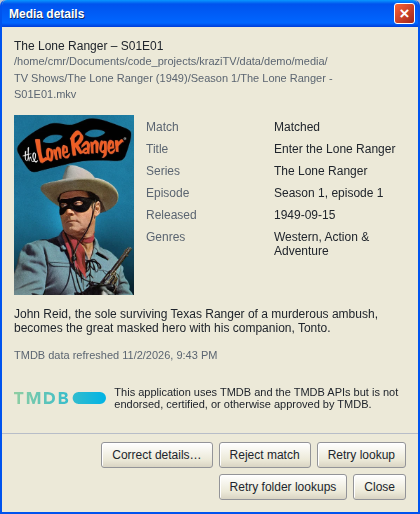
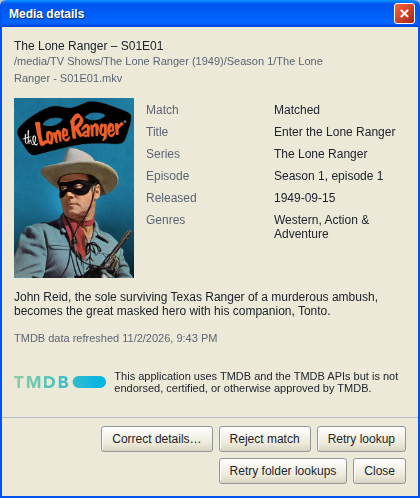
POLISH-068: The first-run walk and the wiki
The wiki now tells owners what a saved TMDB key does and who Gregg is.

- First Run: the TMDB isn't set up balloon leads to Set up TMDB, saving
  the key looks the first scan's files up with no rescan, and the
  Collections ready balloon's Make collections opens Discover.
- Set Up TMDB: what saving a key starts, its two confirmations, the tray's
  running count; the "scan each root again" advice and the yellow icon are
  gone.
- The Desktop: Gregg, kraziTV's tray assistant; one icon, one balloon at a
  time, the three reminders in order with their buttons, Remind me later
  and Don't remind me, once per desktop start, and the running status.
- Media Library: the not-looked-up count and Look up on TMDB.
- Troubleshooting: Look up on TMDB replaces Retry failed lookups.

Screenshots retaken from the demo library: desktop-start, media-library,
media-details, correct-details (set-up-tmdb, logon, and channel-lineup
came out identical). New tray-balloon.png: the demo has a key and no
undecided recommendations, so no reminder shows there; the script tells
only its own browser that no key is set and clears the TMDB reminder's
stored choice, so the balloon opens by itself as on a keyless install.
The demo's media folder is now resolved, so shots taken from a worktree
whose data/demo links to the main checkout still hide the path.

Records the POLISH-068 Status block.

diff --git a/wiki/The-Desktop.md b/wiki/The-Desktop.md
@@ -51,11 +51,53 @@ window to the front or restore it from being minimized.
 
 The system tray on the right holds:
 
-- **A yellow warning icon** while TMDB is not set up. Click it to see why
-  and to set it up. See [Set up TMDB](Set-Up-TMDB).
+- **Gregg**, a small television's head, while kraziTV has something to
+  tell you or files are being looked up on TMDB. See below.
 - **A dot** that is green while the browser can reach kraziTV and amber
   when it cannot; hover it to read why. Clicking it opens Live Monitor.
 - **The clock.**
+
+## The tray and Gregg
+
+Gregg is kraziTV's tray assistant: a tired beige television with rabbit
+ears, an accountant's green visor, and a cigarette, who has seen every
+shoebox of receipts and does the paperwork anyway. He never wanders around
+the desktop. He sits in the tray and speaks through balloons, like the ones
+XP's tray popped up.
+
+![Gregg's balloon when TMDB isn't set up](images/tray-balloon.png)
+
+Each balloon says plainly what is wrong and what its first button does;
+Gregg's own remark sits in italics under the title. There is one icon and
+one balloon at a time. Pointing at the icon shows the title of the balloon
+it opens, and clicking it opens that balloon. When more than one thing
+needs you, the balloon higher in this list comes first. The numbers in
+the titles are examples:
+
+| Balloon                                       | When                                                                                            | First button                                                                        |
+| --------------------------------------------- | ----------------------------------------------------------------------------------------------- | ----------------------------------------------------------------------------------- |
+| **TMDB isn't set up**                         | No TMDB key is saved. It pops up on its own only once you have a media root                     | **Set up TMDB** opens Account Settings on that task. See [Set up TMDB](Set-Up-TMDB) |
+| **312 files haven't been looked up on TMDB**  | A key is saved, nothing is being scanned or looked up, and some files never were                | **Look them up** looks up every root's leftover files, failed lookups included      |
+| **kraziTV found 14 shows and 3 movie series** | Nothing is left to look up, and kraziTV has collections to suggest that you have not decided on | **Make collections** opens [Collections](Collections) on **Discover collections**   |
+
+Every balloon also has **Remind me later** and **Don't remind me**:
+
+- **Remind me later**, the ✕, and Escape close it, and it does not pop up
+  on its own again for 7 days. The first button counts the same.
+- **Don't remind me** stops that balloon popping up on its own in this
+  browser. Gregg's icon still shows while the balloon applies, so you can
+  always click it.
+
+Each balloon remembers its own answer, so silencing one never silences
+another. A balloon pops up on its own at most once each time you open
+kraziTV in your browser, which can be partway through, such as when
+lookups finish. It never takes the keyboard away from the window you are
+using. **kraziTV found…** comes back on its own only when there are more
+suggestions than when you last answered it.
+
+While files are being looked up on TMDB, Gregg's icon reads "Looking up
+files on TMDB: 340 of 1,234". Clicking it shows the same count, with only a
+✕ to close it; nothing pops up on its own while lookups run.
 
 ## Start
 

diff --git a/wiki/First-Run.md b/wiki/First-Run.md
@@ -34,21 +34,33 @@ one for movies.
 
 ## 3. Set up TMDB
 
-A yellow icon in the system tray reminds you that TMDB is not set up. With
-a free TMDB key, kraziTV recognizes your series, seasons, episodes, and
-movies, and can build collections for you. Without it, kraziTV only knows
-what your file names say.
+Once you have a media root, a balloon pops up from the system tray:
+**TMDB isn't set up**. It comes from Gregg, kraziTV's tray assistant, a
+weary old television who tells you what kraziTV needs from you next; see
+[The desktop](The-Desktop#the-tray-and-gregg). With a free TMDB
+key, kraziTV recognizes your series, seasons, episodes, and movies, and
+can build collections for you. Without it, kraziTV only knows what your
+file names say.
 
-[Set it up](Set-Up-TMDB) now, then scan each media root
-again from its row menu. The rescan only looks up files that were never
-matched, so it is quick. [Media Library](Media-Library) explains what the lookups find.
+![Gregg's balloon when TMDB isn't set up](images/tray-balloon.png)
+
+[Set it up](Set-Up-TMDB) now; the balloon's **Set up TMDB** button takes
+you straight there. When you click **Save**, kraziTV looks up every file
+your scan could not, on its own, and says how many: "kraziTV is looking up
+1,234 files on TMDB. Keep working; the tray will tell you when it's done."
+There is nothing to scan again. Point at Gregg in the tray to see how far
+the lookups have got. [Media Library](Media-Library) explains what they
+find.
 
 ## 4. Keep some collections
 
-Open **Collections** and click **Discover collections…**. kraziTV
-suggests one collection per series and movie franchise it recognized.
-Click **Create automatic collection** on the ones you want. An automatic
-collection keeps itself up to date as you add files.
+When the lookups finish, Gregg's balloon says what kraziTV found, such as
+**kraziTV found 14 shows and 3 movie series**. Click **Make collections**.
+Collections opens on **Discover collections**, which suggests one
+collection per series and movie franchise kraziTV recognized. Click
+**Create automatic collection** on the ones you want. An automatic
+collection keeps itself up to date as you add files. You can come back to
+the suggestions any time with **Discover collections…** in Collections.
 
 You can skip this step: a channel can also play a single series or movie
 you pick directly. But collections are what make channels easy to build.

diff --git a/wiki/Set-Up-TMDB.md b/wiki/Set-Up-TMDB.md
@@ -69,16 +69,26 @@ you.
 ## 5. Add it to kraziTV
 
 In Account Settings, choose **Set up TMDB**, paste the token, and click
-**Save**. The reminder balloon in the system tray has a **Set up TMDB**
-button that takes you straight there, and so does the **Set up TMDB…**
-button at the top of [Media Library](Media-Library) until a key is saved.
+**Save**. The **TMDB isn't set up** balloon in the system tray has a
+**Set up TMDB** button that takes you straight there, and so does the
+**Set up TMDB…** button at the top of [Media Library](Media-Library) until
+a key is saved.
 
 ![Set up TMDB, with a key already saved](images/set-up-tmdb.png)
 
-kraziTV checks the key with TMDB before saving it. The yellow tray icon
-goes away once a key is set. If you added the key after scanning, scan
-each root again in [Media Library](Media-Library) so your files get looked
-up.
+kraziTV checks the key with TMDB before saving it. Once it is saved,
+kraziTV looks up every file a scan could not, in every enabled media root,
+with no rescan. Account Settings says how many: "kraziTV is looking up
+1,234 files on TMDB. Keep working; the tray will tell you when it's done."
+With nothing to look up it says "Your TMDB key is saved." A root that is
+already scanning is left alone; anything its scan misses, the tray offers
+to look up afterwards.
+
+While the lookups run, Gregg stays in the tray; point at him to read
+"Looking up files on TMDB: 340 of 1,234". When they finish, his balloon
+tells you what kraziTV found and offers **Make collections**. If any files
+are still left over, his **Look them up** balloon offers to finish them.
+[The desktop](The-Desktop#the-tray-and-gregg) explains every balloon.
 
 ## Changing or removing the key
 

diff --git a/docs/implementation_plan/004-release-polish/0006-tray-reminders.md b/docs/implementation_plan/004-release-polish/0006-tray-reminders.md
@@ -2,7 +2,7 @@
 
 <!-- plan-progress:start: generated by `npm run plan:status` from ticket Status blocks; do not edit -->
 
-Progress: 5 of 7 tickets complete.
+Progress: 6 of 7 tickets complete.
 
 | Ticket     | Title                                      | Status                 |
 | ---------- | ------------------------------------------ | ---------------------- |
@@ -11,7 +11,7 @@ Progress: 5 of 7 tickets complete.
 | POLISH-065 | Tray reminders, with Gregg                 | Complete on 2026-11-11 |
 | POLISH-066 | Saving a key looks the library up          | Complete on 2026-11-11 |
 | POLISH-067 | Files not looked up, and collections ready | Complete on 2026-11-11 |
-| POLISH-068 | The first-run walk and the wiki            | Open                   |
+| POLISH-068 | The first-run walk and the wiki            | Complete on 2026-11-12 |
 | POLISH-069 | Gregg's final pick                         | Open                   |
 
 <!-- plan-progress:end -->
@@ -271,6 +271,15 @@ Discover with Collections already open and closed. The check list.
 **Docs impact**: `wiki/First-Run.md` (folded into POLISH-068).
 
 ### POLISH-068: The first-run walk and the wiki
+
+**Status**
+
+Complete on 2026-11-12. The browser suite walks a keyless scan, a key save,
+the lookup count, the Collections ready balloon, and Discover against scripted
+TMDB answers, and the wiki's First Run, Set Up TMDB, The Desktop, Media
+Library, and Troubleshooting pages describe Gregg, the three reminders, the
+key-save lookup, and **Look up on TMDB**, with their demo screenshots retaken
+and a new balloon shot.
 
 **Goal**: The browser suite proves the path that stalled, and owners can
 read about it.

diff --git a/wiki/Troubleshooting.md b/wiki/Troubleshooting.md
@@ -93,18 +93,19 @@ to shrink the gap.
 
 ## My shows are not matched
 
-- No TMDB key: follow [Set up TMDB](Set-Up-TMDB), then scan again.
+- No TMDB key: follow [Set up TMDB](Set-Up-TMDB). Saving the key looks
+  your files up; there is no need to scan again.
 - **Needs your choice**: click **Review matches** in Media Library and
   answer the questions.
 - **Unmatched** or wrong: check the folder names against [Naming your
   files](Naming-Your-Files), fix them, and scan again. Or open the file's
   Details and **Correct details…**.
 - **Lookup failed**: open the file's Details. "TMDB could not be reached;
-  kraziTV will try again." means TMDB was unreachable: use **Retry failed
-  lookups** on the root. "TMDB rejected the key. Check it in Account
+  kraziTV will try again." means TMDB was unreachable: use **Look up on
+  TMDB** on the root. "TMDB rejected the key. Check it in Account
   Settings." means TMDB no longer accepts your key: paste a new one in
-  [Set up TMDB](Set-Up-TMDB#changing-or-removing-the-key), then use
-  **Retry failed lookups**. The same sentence shows when choosing a match
+  [Set up TMDB](Set-Up-TMDB#changing-or-removing-the-key), which looks up
+  the failed files again on its own. The same sentence shows when choosing a match
   fails. Under **Refresh error** on a matched file it means a background
   refresh failed: the match stays, and kraziTV tries again on its own every
   hour and after every scan. The error clears once a refresh succeeds: when

diff --git a/wiki/Media-Library.md b/wiki/Media-Library.md
@@ -22,12 +22,19 @@ away. A root you choose not to scan keeps a **Scan** button in its row until
 you do.
 
 Each root's row shows when it was last scanned and how many of its files
-were matched on TMDB. The row menu holds the rest:
+were matched on TMDB, followed by what is still open, such as "12 need your
+choice", "312 not looked up", or "3 failed lookups". The row menu holds the
+rest:
 
 - **Scan** reads the folder again and picks up new, changed, and missing
   files.
-- **Retry failed lookups** asks TMDB again about files it could not look up
-  last time.
+- **Look up on TMDB** looks up the root's files that were never looked up,
+  and asks again about the ones whose lookup failed, in a **Looking up
+  files on TMDB** dialog. It needs a TMDB key and is greyed out when the
+  root has nothing to look up. Saving a key does the same for every root on
+  its own, and Gregg's **Look them up** balloon offers it for files left
+  over (see [The desktop](The-Desktop#the-tray-and-gregg)), so you mostly
+  need it after TMDB was unreachable.
 - **Disable** stops scans and background refreshes for that root. Its files
   stay in the catalog.
 - **Delete…** removes the root and all of its files from the catalog. The

diff --git a/docs/implementation_plan/README.md b/docs/implementation_plan/README.md
@@ -70,7 +70,7 @@ at the top of each plan are generated from ticket Status blocks by
 - [Release Polish Spec 0003 Implementation Plan: Release Readiness](004-release-polish/0003-release-readiness.md) - 11 of 11 tickets complete
 - [Release Polish Spec 0004 Implementation Plan: Second Polish Pass](004-release-polish/0004-second-polish-pass.md) - 13 of 13 tickets complete
 - [Release Polish Spec 0005 Implementation Plan: Third Polish Pass](004-release-polish/0005-third-polish-pass.md) - 24 of 24 tickets complete
-- [Release Polish Spec 0006 Implementation Plan: Tray Reminders](004-release-polish/0006-tray-reminders.md) - 5 of 7 tickets complete
+- [Release Polish Spec 0006 Implementation Plan: Tray Reminders](004-release-polish/0006-tray-reminders.md) - 6 of 7 tickets complete
 
 <!-- plan-index:end -->
 
